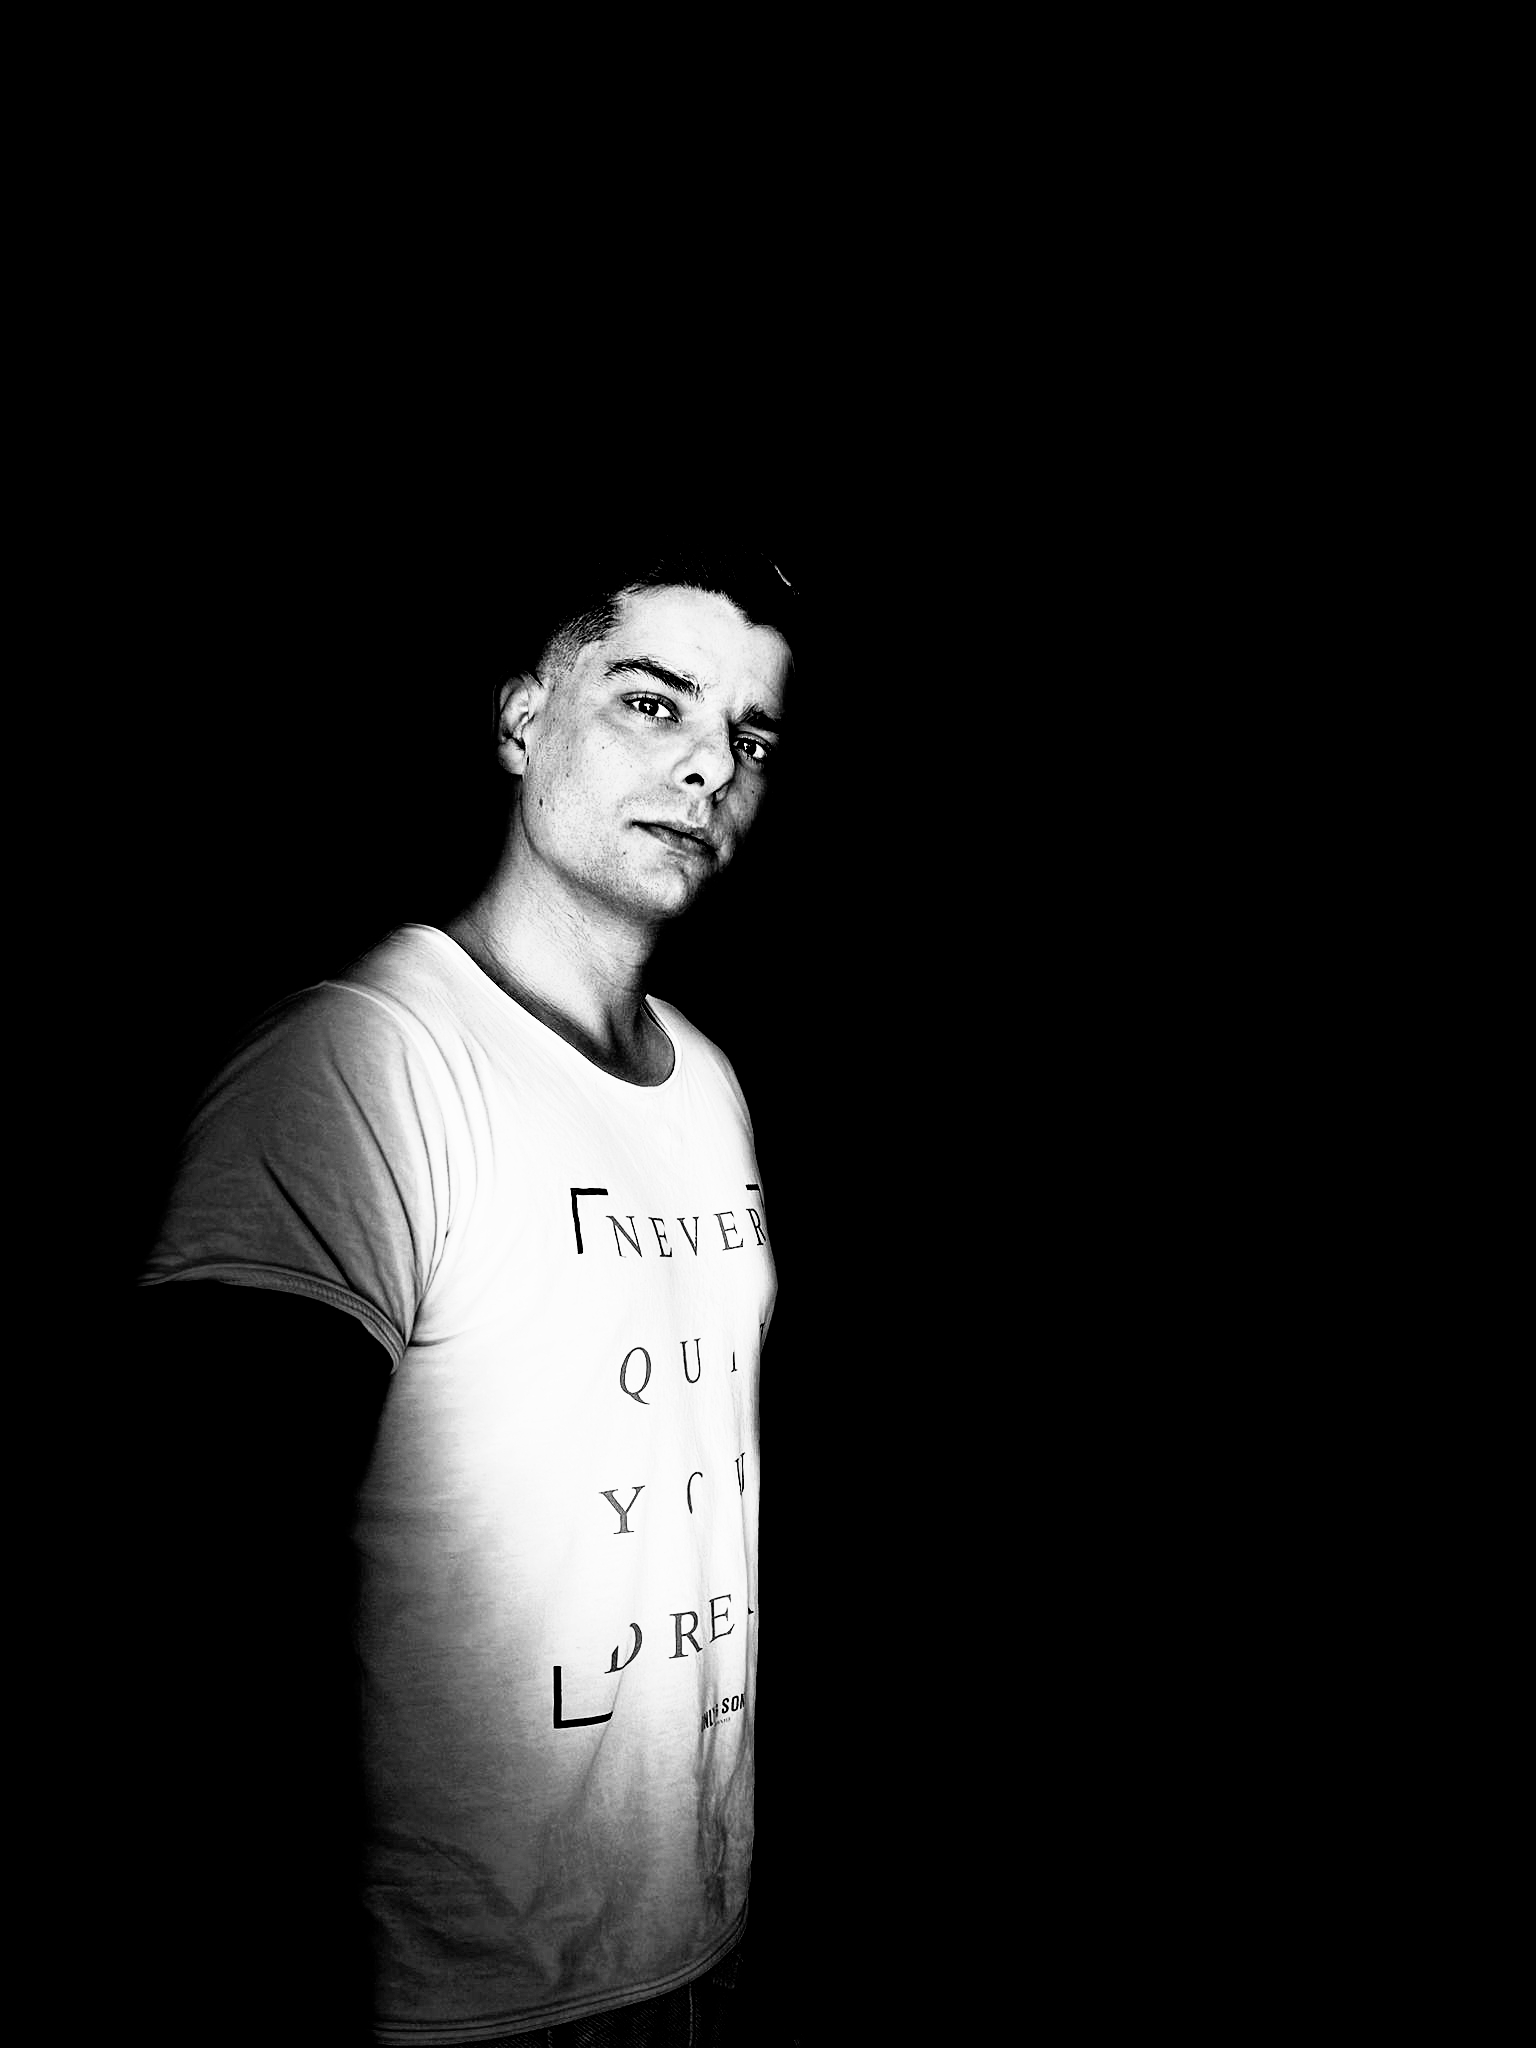
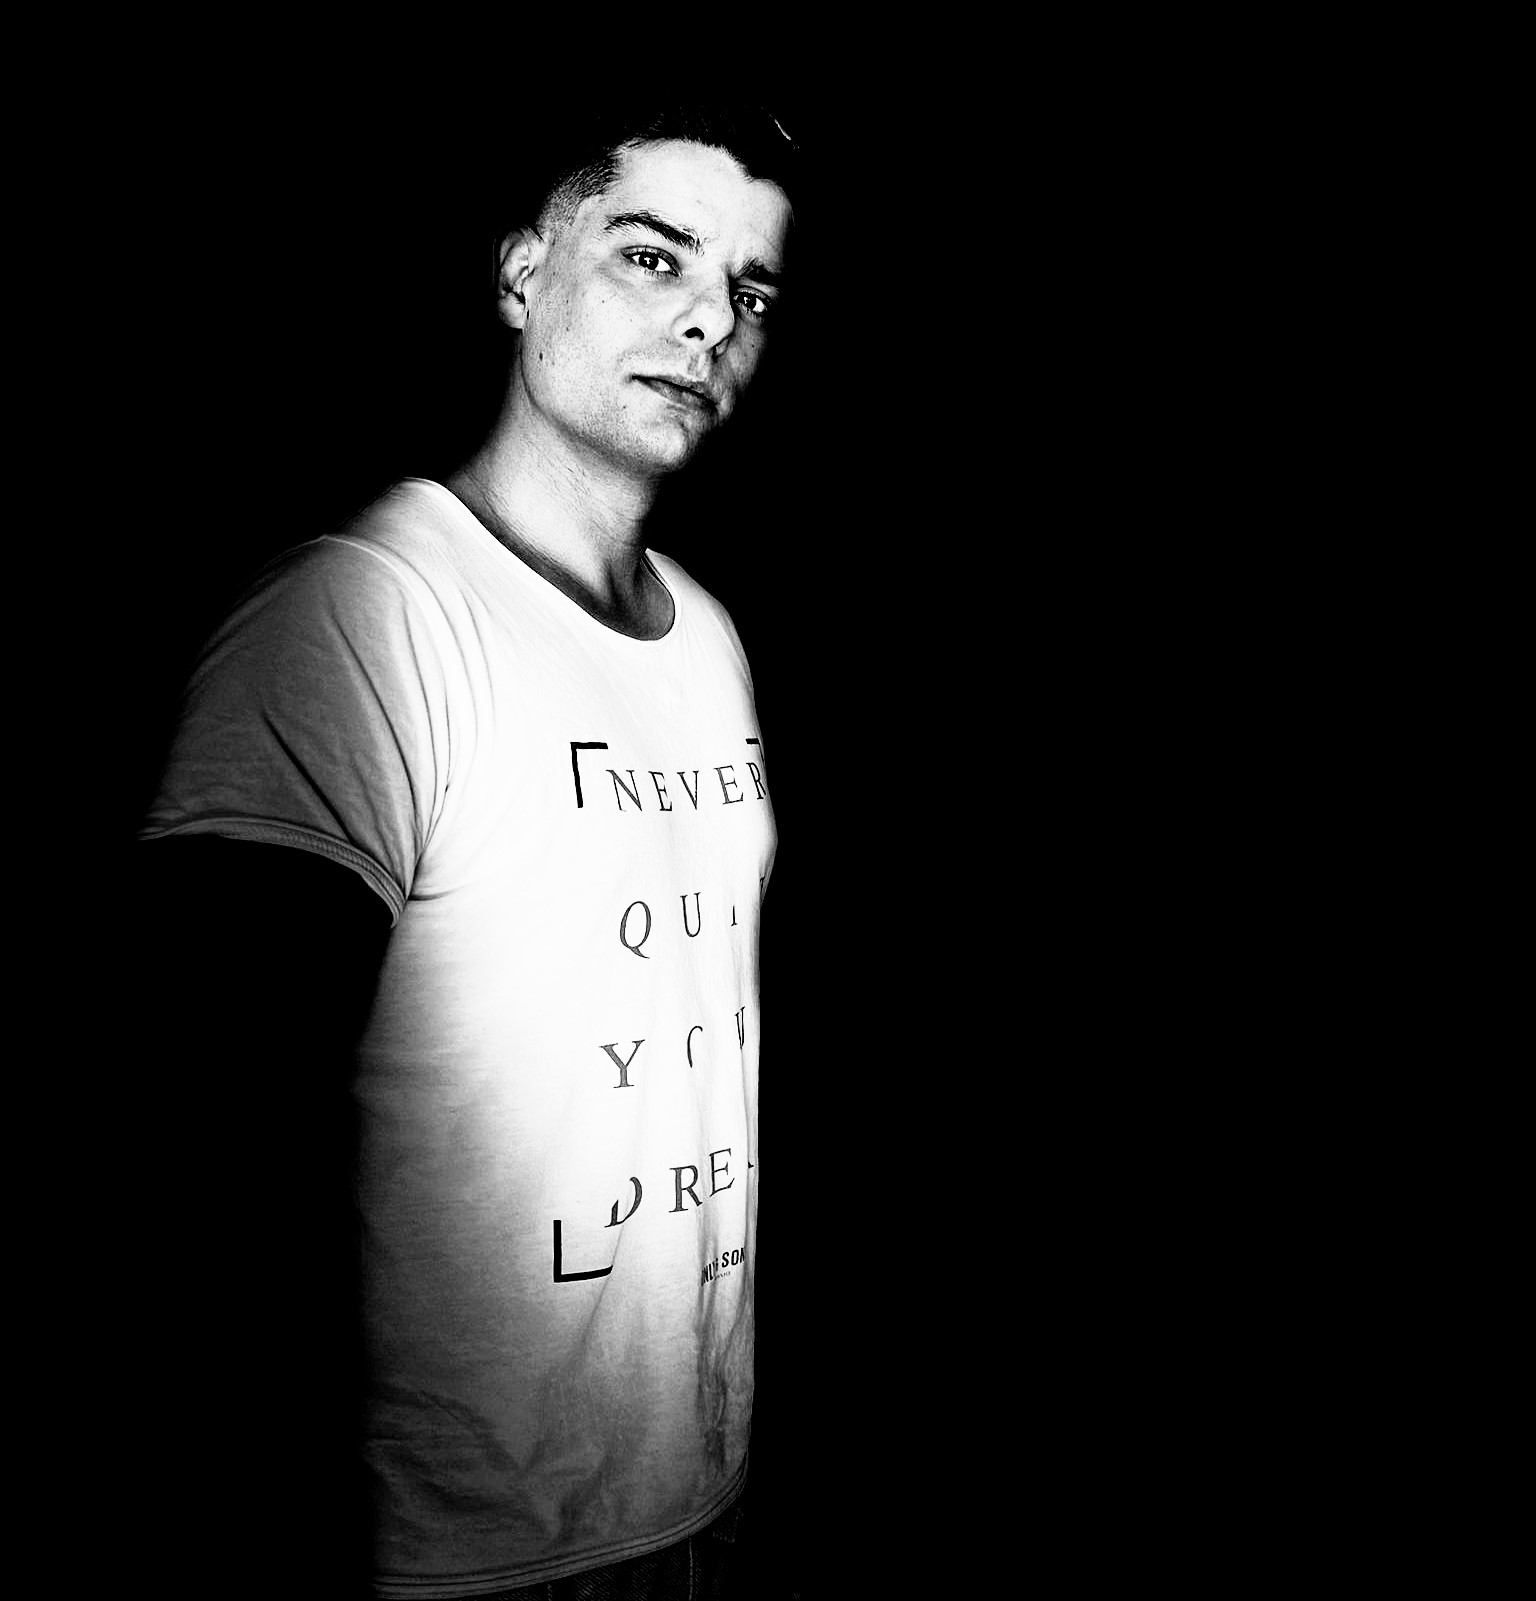
Fix details artist

diff --git a/src/components/ArtistDetail/index.jsx b/src/components/ArtistDetail/index.jsx
@@ -123,14 +123,18 @@ const Content = styled.div`
 `;
 
 const ArtistImage = styled.img`
-  max-width: 40vw;
-  width: 100%;
-  height: auto;
-  display: flex;
+  width: 37vw; /* Ancho fijo al 40% del viewport */
+  max-height: 40vh; /* Limita la altura máxima al 60% del viewport */
+  object-fit: cover; /* Recorta la imagen para ajustarse sin deformarla */
+  object-position: top; /* Muestra siempre la parte superior de la imagen */
+
+  display: block;
   @media (max-width: 768px) {
-    max-width: 100%;
+    width: 100%; /* En móviles ocupa todo el ancho disponible */
+    max-height: unset; /* No hay límite de altura en móviles */
+    object-fit: contain; /* En móviles muestra todo el contenido sin recortar */
   }
-`
+`;
 
 const Releases = styled.div`
   @media (max-width: 768px) {
@@ -147,7 +151,7 @@ const EpCover = styled.div`
 `
 
 const ArtistBio = styled.div`
-  padding: 0rem 2rem;
+  padding: 0rem 0rem 0rem 2rem;
   color: #dadada;
   p {
     font-family: 'kaneda-gothic-light';

diff --git a/src/views/ArtistDetail/styles.js b/src/views/ArtistDetail/styles.js
@@ -12,14 +12,15 @@ export const Home = styled.div`
 export const Content = styled.div`
   background-image: url(${(props) => props.background});
   background-position: center;
-  display: flex;
   background-attachment: scroll;
-  background-size: center;
+  background-size: cover; /* Asegura que la imagen cubra todo el contenedor */
+  display: flex;
   justify-content: center;
-  height: 100%;
-  z-index: -1;
+  align-items: center; /* Opcional, alinea el contenido dentro del contenedor */
+  min-height: 100vh; /* Asegura que ocupe al menos el alto completo de la ventana */
   width: 100%;
-`
+  z-index: -1;
+`;
 
 export const Artists = styled.div`
   display: flex;
